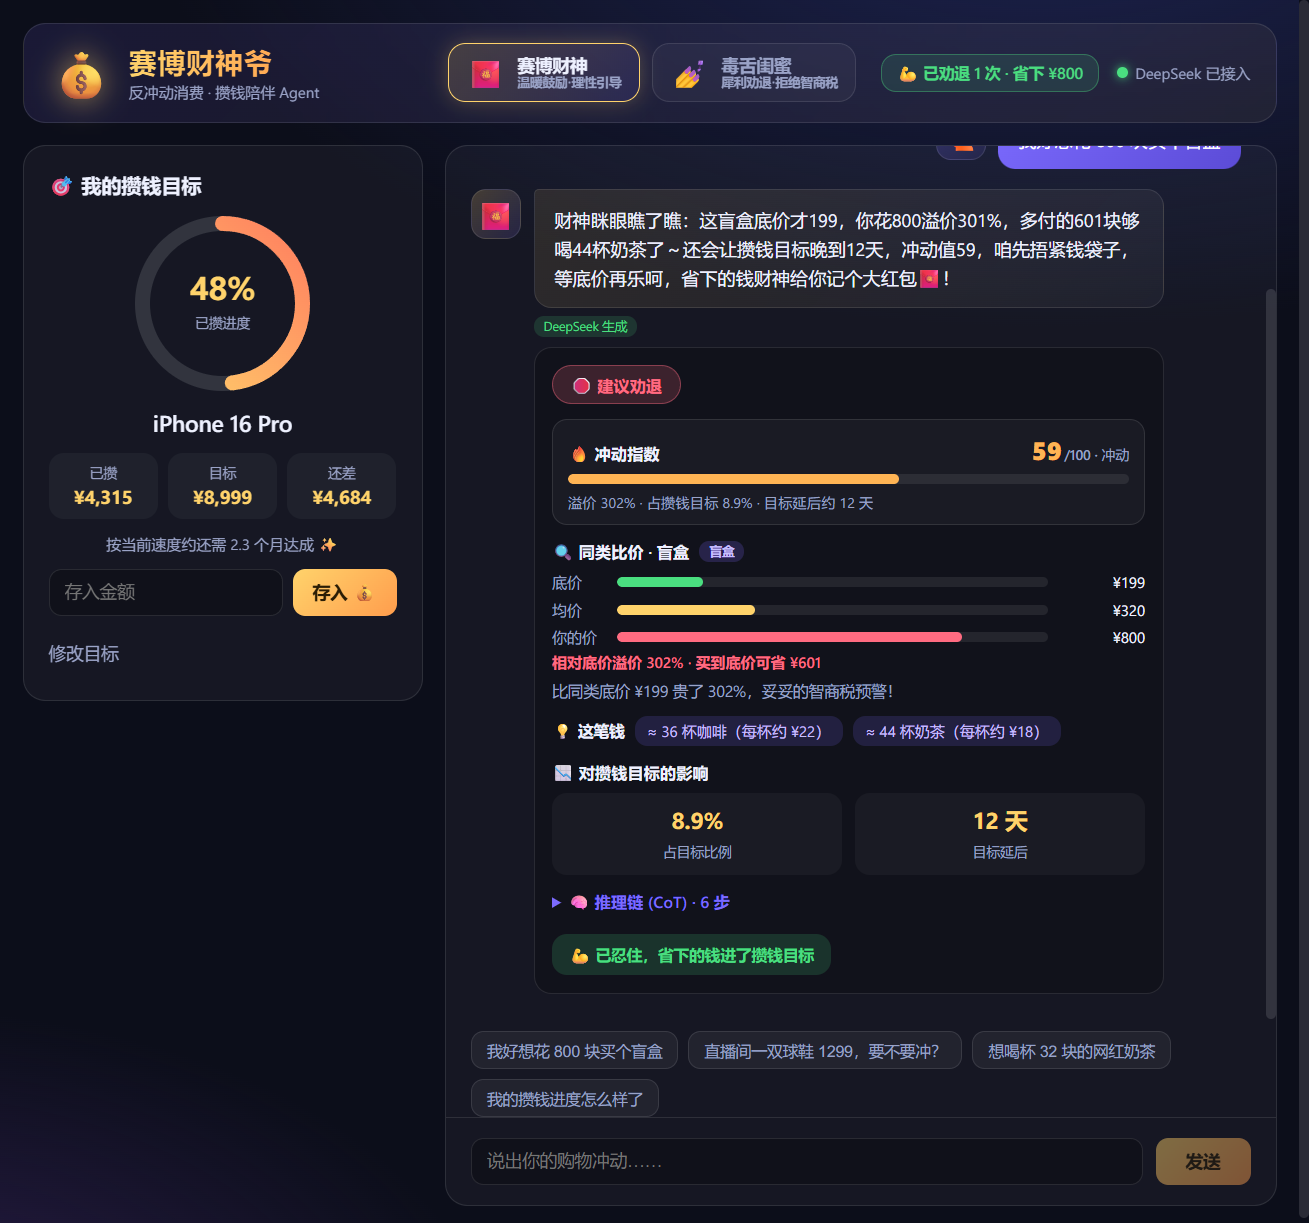
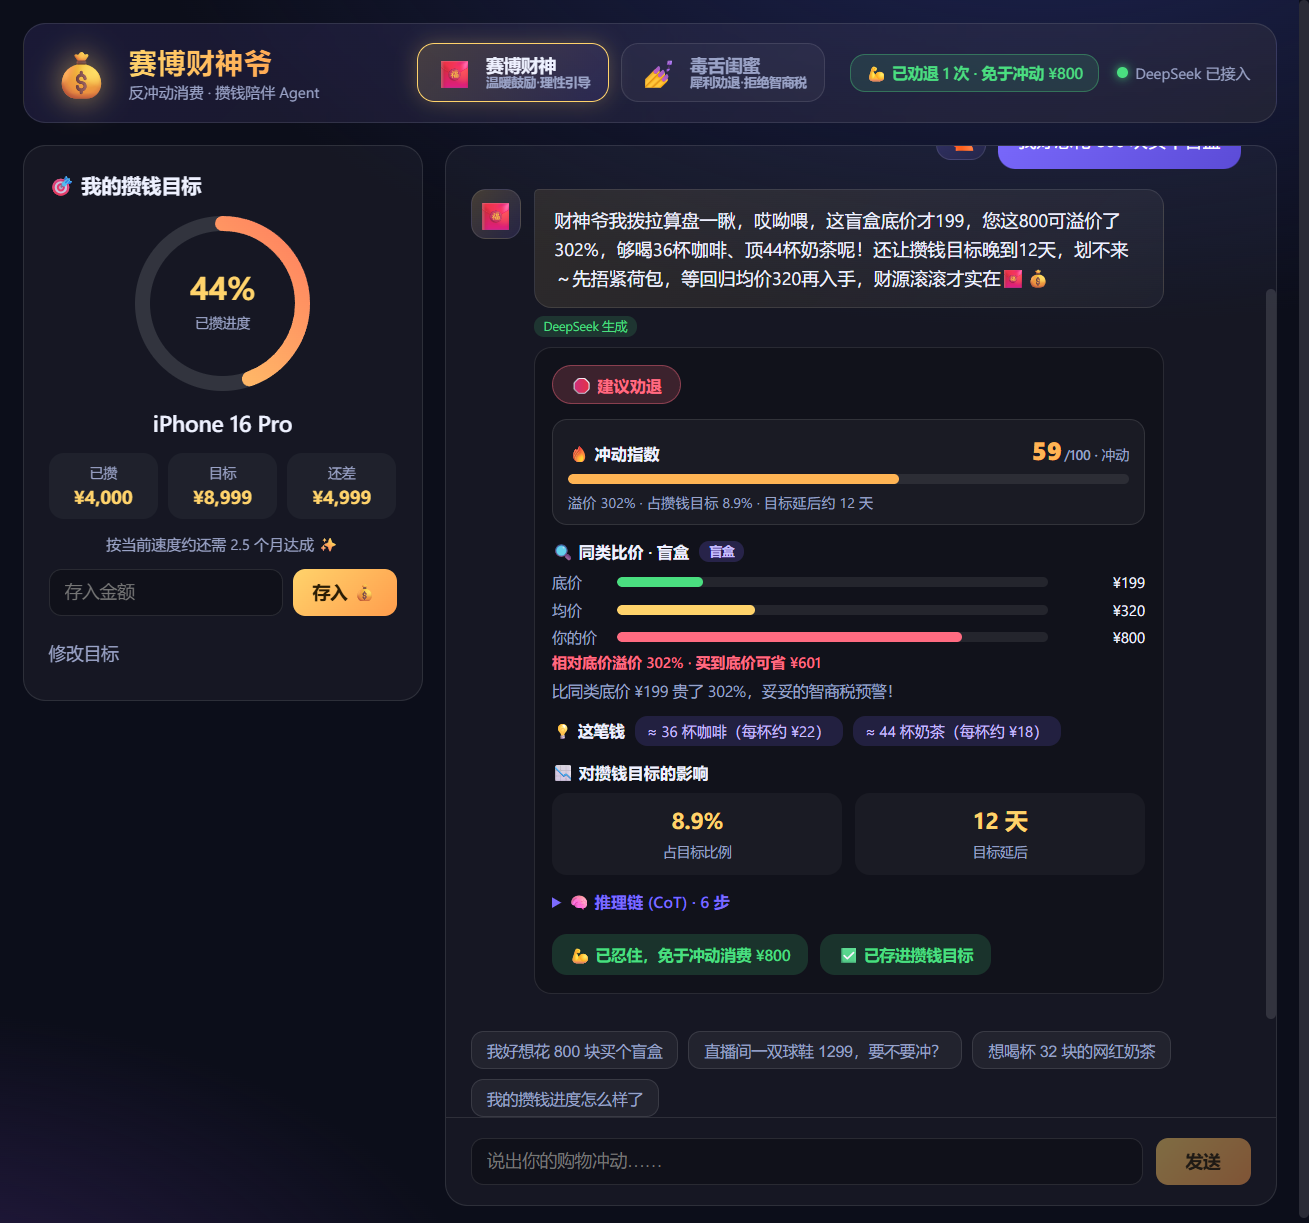
refactor: 区分"免于冲动消费"与"实际已攒"，忍住不再自动存入
更严谨的财务口径：
- 忍住只记为"免于冲动消费"统计（已劝退N次·免于冲动¥X），不自动计入已攒
- 省下的钱是否进目标，由用户再点一次"把省下的钱存进目标"明确决定（对应现实中真转一笔账）
- Stats.total_saved 重命名为 total_avoided，语义更准确

前端：忍住后展示"免于冲动消费¥X" + 独立的"存进目标"按钮，存入后显示"已存进攒钱目标"
测试：忍住不再自动存入、显式存入、统计口径，44 个用例全部通过

diff --git a/frontend/src/components/ChatPanel.tsx b/frontend/src/components/ChatPanel.tsx
@@ -1,10 +1,11 @@
 import { useEffect, useRef, useState } from "react";
 import type { ChatContext, ChatMessage, ChatTurn, DecisionAction, Role } from "../types";
-import { chat, recordDecision } from "../api/client";
+import { chat, deposit, recordDecision } from "../api/client";
 import MessageBubble from "./MessageBubble";
 
 interface Props {
   role: Role;
+  hasGoal: boolean;
   onGoalMayChange: () => void;
   onStatsMayChange: () => void;
 }
@@ -27,7 +28,7 @@ function welcomeMessage(role: Role): ChatMessage {
   return { id: `welcome-${role}`, sender: "agent", text: WELCOME[role] };
 }
 
-export default function ChatPanel({ role, onGoalMayChange, onStatsMayChange }: Props) {
+export default function ChatPanel({ role, hasGoal, onGoalMayChange, onStatsMayChange }: Props) {
   const [messages, setMessages] = useState<ChatMessage[]>([welcomeMessage(role)]);
   const [input, setInput] = useState("");
   const [loading, setLoading] = useState(false);
@@ -84,7 +85,6 @@ export default function ChatPanel({ role, onGoalMayChange, onStatsMayChange }: P
     try {
       await recordDecision({ item: price.item, price: price.user_price, action, role });
       setMessages((arr) => arr.map((m) => (m.id === msg.id ? { ...m, decided: action } : m)));
-      onGoalMayChange();
       onStatsMayChange();
     } catch (e) {
       setMessages((arr) => [
@@ -94,11 +94,34 @@ export default function ChatPanel({ role, onGoalMayChange, onStatsMayChange }: P
     }
   }
 
+  // 用户明确把省下的钱存进目标（对应现实中真去转一笔账）
+  async function depositSaved(msg: ChatMessage) {
+    const price = msg.response?.price;
+    if (!price || price.user_price == null) return;
+    try {
+      await deposit(price.user_price);
+      setMessages((arr) => arr.map((m) => (m.id === msg.id ? { ...m, deposited: true } : m)));
+      onGoalMayChange();
+    } catch (e) {
+      setMessages((arr) => [
+        ...arr,
+        { id: `e-${Date.now()}`, sender: "agent", text: `存入失败：${(e as Error).message}` },
+      ]);
+    }
+  }
+
   return (
     <section className="chat-panel">
       <div className="chat-list" ref={listRef}>
         {messages.map((m) => (
-          <MessageBubble key={m.id} msg={m} role={role} onDecide={decide} />
+          <MessageBubble
+            key={m.id}
+            msg={m}
+            role={role}
+            hasGoal={hasGoal}
+            onDecide={decide}
+            onDepositSaved={depositSaved}
+          />
         ))}
         {loading && (
           <div className="bubble-row from-agent">

diff --git a/frontend/src/components/AnalysisCard.tsx b/frontend/src/components/AnalysisCard.tsx
@@ -9,10 +9,13 @@ const VERDICT_META: Record<string, { label: string; cls: string; emoji: string }
 interface Props {
   resp: ChatResponse;
   decided?: DecisionAction;
+  deposited?: boolean;
+  hasGoal: boolean;
   onDecide: (action: DecisionAction) => void;
+  onDepositSaved: () => void;
 }
 
-export default function AnalysisCard({ resp, decided, onDecide }: Props) {
+export default function AnalysisCard({ resp, decided, deposited, hasGoal, onDecide, onDepositSaved }: Props) {
   const { price, impact, verdict, impulse, opportunity_cost, cot_steps } = resp;
   const hasContent = price || impact?.has_goal || cot_steps.length > 0;
   if (!hasContent) return null;
@@ -95,11 +98,7 @@ export default function AnalysisCard({ resp, decided, onDecide }: Props) {
 
       {showActions && (
         <div className="decision-row">
-          {decided ? (
-            <span className={`decided-chip ${decided}`}>
-              {decided === "resisted" ? "💪 已忍住，省下的钱进了攒钱目标" : "🛍️ 已记录这笔消费"}
-            </span>
-          ) : (
+          {!decided && (
             <>
               <button className="resist-btn" onClick={() => onDecide("resisted")}>
                 💪 我忍住了
@@ -107,6 +106,20 @@ export default function AnalysisCard({ resp, decided, onDecide }: Props) {
               <button className="bought-btn" onClick={() => onDecide("bought")}>
                 🛍️ 还是买了
               </button>
+            </>
+          )}
+          {decided === "bought" && <span className="decided-chip bought">🛍️ 已记录这笔消费</span>}
+          {decided === "resisted" && (
+            <>
+              <span className="decided-chip resisted">
+                💪 已忍住，免于冲动消费 ¥{price!.user_price!.toLocaleString()}
+              </span>
+              {hasGoal && !deposited && (
+                <button className="deposit-saved-btn" onClick={onDepositSaved}>
+                  把省下的 ¥{price!.user_price!.toLocaleString()} 存进目标 💰
+                </button>
+              )}
+              {deposited && <span className="decided-chip resisted">✅ 已存进攒钱目标</span>}
             </>
           )}
         </div>

diff --git a/frontend/src/components/MessageBubble.tsx b/frontend/src/components/MessageBubble.tsx
@@ -6,10 +6,12 @@ const ROLE_AVATAR: Record<Role, string> = { caishen: "🧧", bestie: "💅" };
 interface Props {
   msg: ChatMessage;
   role: Role;
+  hasGoal: boolean;
   onDecide: (msg: ChatMessage, action: DecisionAction) => void;
+  onDepositSaved: (msg: ChatMessage) => void;
 }
 
-export default function MessageBubble({ msg, role, onDecide }: Props) {
+export default function MessageBubble({ msg, role, hasGoal, onDecide, onDepositSaved }: Props) {
   const isUser = msg.sender === "user";
   return (
     <div className={`bubble-row ${isUser ? "from-user" : "from-agent"}`}>
@@ -26,7 +28,10 @@ export default function MessageBubble({ msg, role, onDecide }: Props) {
             <AnalysisCard
               resp={msg.response}
               decided={msg.decided}
+              deposited={msg.deposited}
+              hasGoal={hasGoal}
               onDecide={(action) => onDecide(msg, action)}
+              onDepositSaved={() => onDepositSaved(msg)}
             />
           </>
         )}

diff --git a/frontend/src/App.tsx b/frontend/src/App.tsx
@@ -48,8 +48,8 @@ export default function App() {
         <RoleSwitch role={role} onChange={setRole} />
         <div className="topbar-right">
           {stats && (stats.resisted_count > 0 || stats.bought_count > 0) && (
-            <div className="stats-badge" title="忍住的钱会自动存进攒钱目标">
-              💪 已劝退 {stats.resisted_count} 次 · 省下 ¥{stats.total_saved.toLocaleString()}
+            <div className="stats-badge" title="忍住的金额，可一键存进攒钱目标">
+              💪 已劝退 {stats.resisted_count} 次 · 免于冲动 ¥{stats.total_avoided.toLocaleString()}
             </div>
           )}
           <div className="llm-status">
@@ -72,6 +72,7 @@ export default function App() {
         <GoalPanel progress={progress} onUpdated={setProgress} />
         <ChatPanel
           role={role}
+          hasGoal={progress?.goal != null}
           onGoalMayChange={refreshGoal}
           onStatsMayChange={refreshStats}
         />

diff --git a/frontend/src/types.ts b/frontend/src/types.ts
@@ -34,7 +34,7 @@ export interface ChatTurn {
 export interface Stats {
   resisted_count: number;
   bought_count: number;
-  total_saved: number;
+  total_avoided: number;
 }
 
 export interface GoalImpact {
@@ -85,4 +85,5 @@ export interface ChatMessage {
   text: string;
   response?: ChatResponse;
   decided?: DecisionAction;
+  deposited?: boolean;
 }

diff --git a/frontend/src/styles.css b/frontend/src/styles.css
@@ -285,6 +285,7 @@ button:disabled { opacity: 0.45; cursor: not-allowed; }
 .decision-row { display: flex; gap: 10px; flex-wrap: wrap; }
 .resist-btn { background: linear-gradient(135deg, var(--green), #2fae63); color: #06210f; }
 .bought-btn { background: rgba(255, 255, 255, 0.08); color: var(--text-dim); }
+.deposit-saved-btn { background: linear-gradient(135deg, var(--gold), var(--gold-2)); color: #2a1d05; }
 .decided-chip {
   font-size: 12.5px; padding: 8px 14px; border-radius: 12px; font-weight: 600;
 }

diff --git a/backend/tests/test_api.py b/backend/tests/test_api.py
@@ -61,15 +61,23 @@ def test_chat_purchase_flow(client):
     assert data["llm_used"] is False
 
 
-def test_decision_resisted_deposits_to_goal(client):
+def test_decision_resisted_records_without_autodeposit(client):
     client.post("/api/goal", json={"name": "iPhone", "target_amount": 6000, "saved_amount": 1000})
     r = client.post("/api/decision", json={"item": "盲盒", "price": 800, "action": "resisted", "role": "bestie"})
     assert r.status_code == 200
     body = r.json()
     assert body["stats"]["resisted_count"] == 1
-    assert body["stats"]["total_saved"] == 800
-    # 忍住的钱进了目标：1000 + 800
-    assert body["progress"]["goal"]["saved_amount"] == 1800
+    assert body["stats"]["total_avoided"] == 800
+    # 忍住不自动存入：已攒仍为 1000，需用户另行存入
+    assert body["progress"]["goal"]["saved_amount"] == 1000
+
+
+def test_resisted_then_explicit_deposit(client):
+    client.post("/api/goal", json={"name": "iPhone", "target_amount": 6000, "saved_amount": 1000})
+    client.post("/api/decision", json={"item": "盲盒", "price": 800, "action": "resisted"})
+    # 用户明确把省下的钱存进目标
+    p = client.post("/api/goal/deposit", json={"amount": 800}).json()
+    assert p["goal"]["saved_amount"] == 1800
 
 
 def test_stats_counts_bought_and_resisted(client):
@@ -79,4 +87,4 @@ def test_stats_counts_bought_and_resisted(client):
     s = client.get("/api/stats").json()
     assert s["resisted_count"] == 1
     assert s["bought_count"] == 1
-    assert s["total_saved"] == 100
+    assert s["total_avoided"] == 100

diff --git a/backend/app/decision_service.py b/backend/app/decision_service.py
@@ -1,7 +1,8 @@
 """消费决策记录服务：打通'反冲动 -> 攒钱'闭环。
 
-用户对一条消费建议可选择"忍住了"或"还是买了"。忍住时，把省下的钱
-自动存进当前攒钱目标，并累计省钱统计——让劝退产生看得见的正反馈。
+用户对一条消费建议可选择"忍住了"或"还是买了"。忍住只记录为"免于冲动消费"，
+并不自动计入已攒——因为钱仍在用户账户里。是否把省下的钱真正存进目标，
+由用户再做一次明确的存入动作（对应现实中真的转一笔账），口径更干净。
 """
 from __future__ import annotations
 
@@ -19,7 +20,7 @@ def record_decision(
     role: str,
     db_path: Optional[str] = None,
 ) -> tuple[Stats, GoalProgress]:
-    """记录一次决策。忍住时把省下的钱存进当前目标。返回 (统计, 目标进度)。"""
+    """记录一次决策（不自动存入目标）。返回 (统计, 当前目标进度)。"""
     conn = get_conn(db_path)
     try:
         verdict = "resisted" if action == "resisted" else "bought"
@@ -31,28 +32,25 @@ def record_decision(
     finally:
         conn.close()
 
-    if action == "resisted" and goal_service.get_current_goal(db_path):
-        goal_service.deposit(price, db_path)
-
     goal = goal_service.get_current_goal(db_path)
     return get_stats(db_path), goal_service.compute_progress(goal)
 
 
 def get_stats(db_path: Optional[str] = None) -> Stats:
-    """统计：劝退次数、购买次数、累计省下的钱。"""
+    """统计：劝退次数、购买次数、累计'免于冲动消费'的金额。"""
     conn = get_conn(db_path)
     try:
         row = conn.execute(
             "SELECT "
             "  SUM(CASE WHEN verdict='resisted' THEN 1 ELSE 0 END) AS resisted, "
             "  SUM(CASE WHEN verdict='bought' THEN 1 ELSE 0 END) AS bought, "
-            "  SUM(CASE WHEN verdict='resisted' THEN price ELSE 0 END) AS saved "
+            "  SUM(CASE WHEN verdict='resisted' THEN price ELSE 0 END) AS avoided "
             "FROM decisions"
         ).fetchone()
         return Stats(
             resisted_count=int(row["resisted"] or 0),
             bought_count=int(row["bought"] or 0),
-            total_saved=float(row["saved"] or 0.0),
+            total_avoided=float(row["avoided"] or 0.0),
         )
     finally:
         conn.close()

diff --git a/backend/app/models.py b/backend/app/models.py
@@ -114,4 +114,4 @@ class DecisionIn(BaseModel):
 class Stats(BaseModel):
     resisted_count: int = 0
     bought_count: int = 0
-    total_saved: float = 0.0
+    total_avoided: float = 0.0  # 累计"免于冲动消费"的金额（非实际已攒，需用户主动存入）

diff --git a/README.md b/README.md
@@ -12,7 +12,7 @@
 
 ![消费分析](docs/images/demo-analysis.png)
 
-反冲动闭环：点「我忍住了」，省下的钱自动存进攒钱目标，进度条实时上涨，顶部累计省钱：
+反冲动闭环：点「我忍住了」记为"免于冲动消费"，再点「把省下的钱存进目标」才真正推进攒钱进度（口径清晰，不混淆"少花"与"已攒"）：
 
 ![反冲动闭环](docs/images/demo-loop.png)
 
@@ -28,7 +28,7 @@
 - **量化推理链（CoT）**：意图 → 比价 → 目标影响 → **机会成本** → **冲动指数** → 裁决，6 步链路前端完整展示。
   - **冲动指数 0-100**：由溢价率(0.45) + 占目标比例(0.35) + 延后天数(0.20) 加权，分级"理智/犹豫/冲动/剁手警告"。
   - **机会成本**：把金额换算成"≈N 杯奶茶/咖啡"，更有体感。
-- **反冲动 → 攒钱闭环**：对每条建议可选「我忍住了 💪」或「还是买了 🛍️」；忍住时省下的钱**自动存进攒钱目标**，并累计"已劝退 N 次 · 省下 ¥X"。把劝退变成看得见的正反馈。
+- **反冲动 → 攒钱闭环**：对每条建议可选「我忍住了 💪」或「还是买了 🛍️」。忍住先记为"免于冲动消费"（累计"已劝退 N 次 · 免于冲动 ¥X"），再由用户**明确点"把省下的钱存进目标"**才真正推进进度——区分"避免支出"与"实际储蓄"两个口径，对应现实中真去转一笔账。把劝退变成看得见的正反馈。
 - **模拟比价**：内置 14 类商品价格库，返回同类底价 / 均价 / 高价、溢价率与"买到底价可省多少"，可视化柱状图展示。
 - **攒钱目标计算**：SQLite 持久化，进度环、消费占目标比例、目标延后天数、达成预估。
 - **优雅降级**：默认调用 DeepSeek 生成人格化文案；无 Key / 超时 / 异常时自动回退本地规则模板，**保证演示永远可用**。
@@ -118,8 +118,8 @@ pytest -q
 | POST | `/api/goal` | 创建 / 更新攒钱目标 |
 | POST | `/api/goal/deposit` | 向目标存入金额（推进进度） |
 | POST | `/api/chat` | 核心对话，返回人格化回复 + 结构化分析 + 冲动指数 + CoT（支持多轮 history/context） |
-| GET  | `/api/stats` | 省钱统计：劝退次数 / 购买次数 / 累计省下 |
-| POST | `/api/decision` | 记录"忍住/买了"，忍住时把省下的钱存进目标 |
+| GET  | `/api/stats` | 统计：劝退次数 / 购买次数 / 累计免于冲动消费金额 |
+| POST | `/api/decision` | 记录"忍住/买了"（忍住不自动存入，由用户再明确存入） |
 
 `/api/chat` 响应示例（节选）：
 